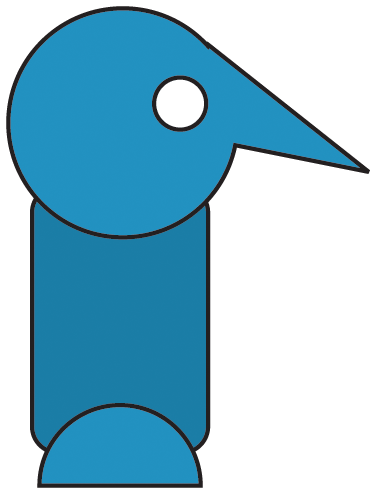
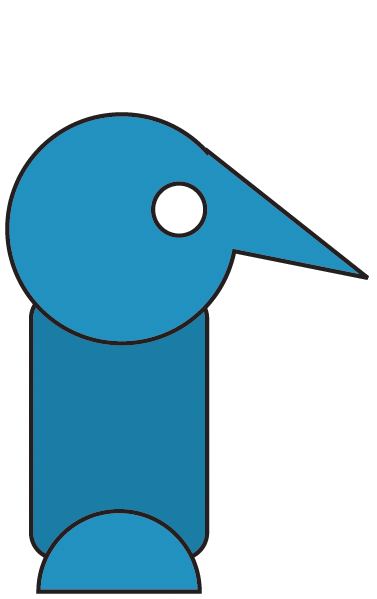
basic grappling and focus

Changed region(s): [[0.0, 0.0, 0.992, 1.0]]

diff --git a/Player.cs b/Player.cs
@@ -12,13 +12,37 @@ public partial class Player : CharacterBody2D
 	[Signal]
 	public delegate void GrappleEventHandler();
 	
+	[Signal]
+	public delegate void FlipEventHandler(bool left);
+	
+	[Signal]
+	public delegate void FocusEventHandler(bool up, bool left);
+	
+	[Signal]
+	public delegate void IdleEventHandler();
+	
 		// Called every frame. 'delta' is the elapsed time since the previous frame.
 	public override void _Process(double delta)
 	{
+		var animatedSprite2D = GetNode<AnimatedSprite2D>("AnimatedSprite2D");
 		// Handle Jump.
 		if (Input.IsActionJustPressed("grapple"))
 		{
 			EmitSignal(SignalName.Grapple);
+		}
+		
+		if (Input.IsActionPressed("focus_up"))
+		{
+			animatedSprite2D.Animation = "up";
+			Velocity = new Vector2(0,Velocity.Y);
+			EmitSignal(SignalName.Focus, true, animatedSprite2D.FlipH);
+		} else if (Input.IsActionPressed("focus_down")) {
+			animatedSprite2D.Animation = "down";
+			Velocity = new Vector2(0,Velocity.Y);
+			EmitSignal(SignalName.Focus, false, animatedSprite2D.FlipH);
+		} else {
+			animatedSprite2D.Animation = "idle";
+			EmitSignal(SignalName.Idle);
 		}
 		
 	}
@@ -43,7 +67,10 @@ public partial class Player : CharacterBody2D
 		}
 
 		// Get the input direction and handle the movement/deceleration.
-		Vector2 direction = Input.GetVector("move_left", "move_right", "jump", "move_down");
+		Vector2 direction = new Vector2(
+			Input.GetAxis("move_left", "move_right"),
+			Input.IsActionPressed("jump") ? -1 : 0
+		);
 
 		if (direction != Vector2.Zero)
 		{
@@ -62,8 +89,13 @@ public partial class Player : CharacterBody2D
 		
 		var wasOnFloor = IsOnFloor();
 		
+		if (!(Input.IsActionPressed("focus_up")) && !(Input.IsActionPressed("focus_down"))) // if we aren't focusing
+		{
+			MoveAndSlide();
+		} else if (velocity.Y != 0) { // if we are focusing
+			MoveAndSlide();
+		}
 		
-		MoveAndSlide();
 		
 		var gravity = GetGravity();
 		
@@ -84,6 +116,17 @@ public partial class Player : CharacterBody2D
 		{
 			WeWereMoving = false;
 		}
+	
+		if (velocity.X != 0)
+		{
+			var previousFlip = animatedSprite2D.FlipH;
+			var currentFlip = velocity.X < 0;
+			animatedSprite2D.FlipH = currentFlip;
+			if (previousFlip != currentFlip) {
+				EmitSignal(SignalName.Flip, currentFlip);
+			}
+		}
+	
 		
 	}
 		
@@ -98,9 +141,59 @@ public partial class Player : CharacterBody2D
 		}
 		
 		public void OnHookBodyEntered(Node2D body) {
-			GD.Print("BOOP: ",body.Name);
-			Vector2 left =  new Vector2(-4, 0); // (-1, 0)
-			MoveAndCollide(left);
+			var animatedSprite2D = GetNode<AnimatedSprite2D>("AnimatedSprite2D");
+			var raycast = GetNode<RayCast2D>("RayCast2D"); 
+			
+			if (body.Name == "Player") {
+				return;
+			}
+			
+			if (body is TileMapLayer tileMap)
+			{        
+				if (Input.IsActionPressed("focus_up")) {
+					raycast.TargetPosition = new Vector2(0, -1000);
+					raycast.ForceRaycastUpdate();
+					
+					if (raycast.IsColliding())
+					{
+						Vector2 hookWorldPos = raycast.GetCollisionPoint();
+						GlobalPosition = new Vector2(GlobalPosition.X, hookWorldPos.Y);
+					}	
+					GetNode<Timer>("CoyoteTimer").Start();
+					CanCoyoteJump = true;
+				} else if (Input.IsActionPressed("focus_down")) {
+					raycast.TargetPosition = new Vector2(0, 1000);
+					raycast.ForceRaycastUpdate();
+					
+					if (raycast.IsColliding())
+					{
+						Vector2 hookWorldPos = raycast.GetCollisionPoint();
+						GlobalPosition = new Vector2(GlobalPosition.X, hookWorldPos.Y);
+					}	
+				} else if (animatedSprite2D.FlipH) {
+					raycast.TargetPosition = new Vector2(-1000, 0);
+					raycast.ForceRaycastUpdate();
+					
+					if (raycast.IsColliding())
+					{
+						Vector2 hookWorldPos = raycast.GetCollisionPoint();
+						GlobalPosition = new Vector2(hookWorldPos.X, GlobalPosition.Y);
+					}	
+					GetNode<Timer>("CoyoteTimer").Start();
+					CanCoyoteJump = true;
+				} else if (!(animatedSprite2D.FlipH)) {
+					raycast.TargetPosition = new Vector2(1000, 0);
+					raycast.ForceRaycastUpdate();
+					
+					if (raycast.IsColliding())
+					{
+						Vector2 hookWorldPos = raycast.GetCollisionPoint();
+						GlobalPosition = new Vector2(hookWorldPos.X, GlobalPosition.Y);
+					}	
+					GetNode<Timer>("CoyoteTimer").Start();
+					CanCoyoteJump = true;
+				}
+			}
 		}
 		
 	}

diff --git a/Hook.cs b/Hook.cs
@@ -17,12 +17,45 @@ public partial class Hook : Area2D
 	public void OnGrapple()
 	{
 		var animatedSprite2D = GetNode<AnimatedSprite2D>("AnimatedSprite2D");
-		GD.Print("One");
 		var animationPlayer = GetNode<AnimationPlayer>("AnimationPlayer");
-		GD.Print("Two");
 		animatedSprite2D.Play();
 		animationPlayer.Play("grapple");
 
+	}
+	
+	public void OnFlip(bool left)
+	{
+		Scale = new Vector2(-Scale.X, Scale.Y);
+		if (left) {
+			//subtract 20 from the position.x value
+			Position += new Vector2(-15, 0);
+		} else {
+			//add 20 to the position.x value
+			Position += new Vector2(15, 0);
+		}
+	}
+	
+	public void OnFocus(bool up, bool left)
+	{
+		if (up) {
+			if (left) {
+				RotationDegrees = 90;
+			} else {
+				RotationDegrees = -90;
+			}
+			
+		} else {
+			if (left) {
+				RotationDegrees = -90;
+			} else {
+				RotationDegrees = 90;
+			}
+		}
+	}
+	
+	public void OnIdle()
+	{
+		RotationDegrees = 0;
 	}
 	
 	